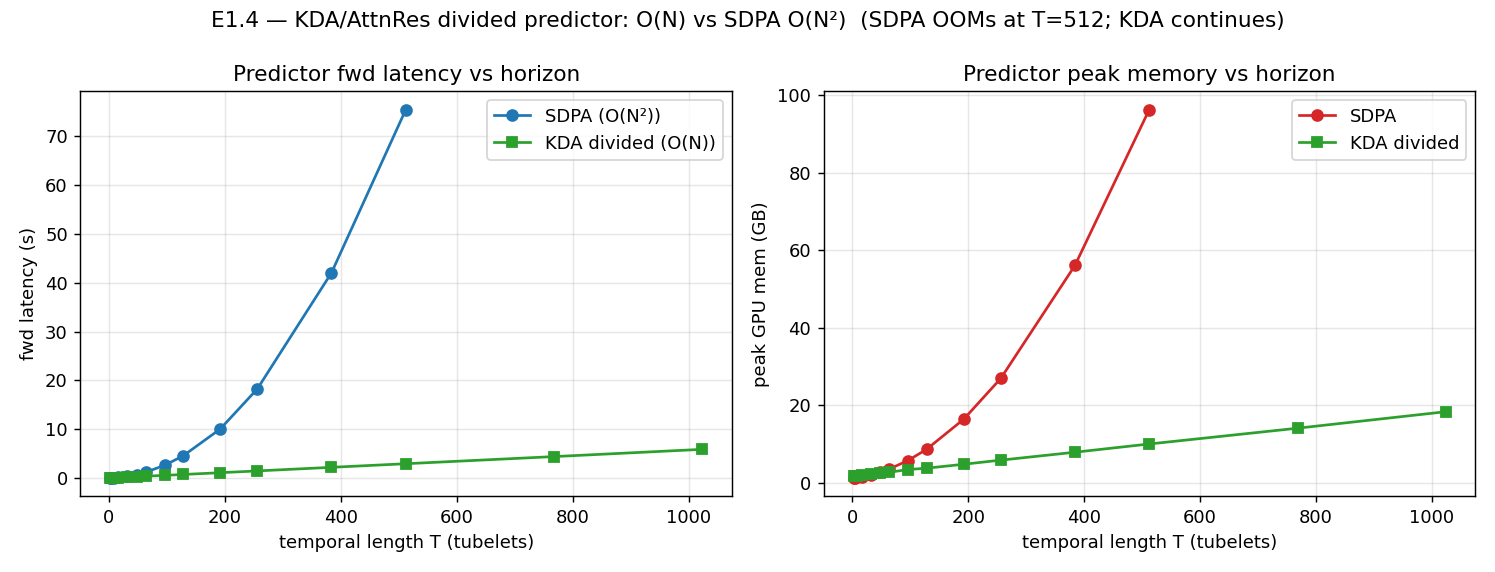
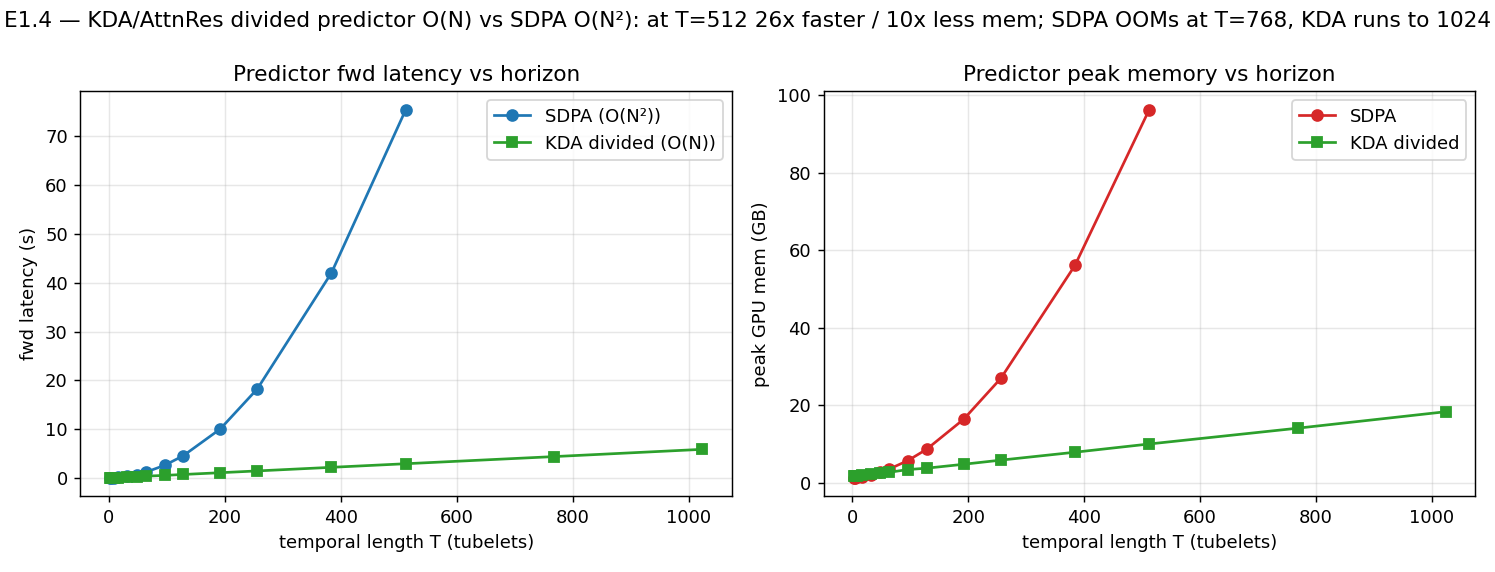
fix E1.4 plot caption (SDPA OOM at 768 not 512; add speedup numbers)

Changed region(s): [[0.0, 0.0, 1.0, 0.0594]]

diff --git a/scripts/plot_e03e14_overlay.py b/scripts/plot_e03e14_overlay.py
@@ -18,7 +18,7 @@ ax[1].plot(Tk, memk, "s-", color="C2", label="KDA divided")
 ax[1].set(xlabel="temporal length T (tubelets)", ylabel="peak GPU mem (GB)", title="Predictor peak memory vs horizon")
 for a in ax:
     a.grid(True, alpha=0.3); a.legend()
-fig.suptitle("E1.4 — KDA/AttnRes divided predictor: O(N) vs SDPA O(N²)  (SDPA OOMs at T=512; KDA continues)")
+fig.suptitle("E1.4 — KDA/AttnRes divided predictor O(N) vs SDPA O(N²): at T=512 26x faster / 10x less mem; SDPA OOMs at T=768, KDA runs to 1024")
 fig.tight_layout()
 out = f"{RES}/e14_kda_vs_sdpa_scaling.png"
 fig.savefig(out, dpi=130)
